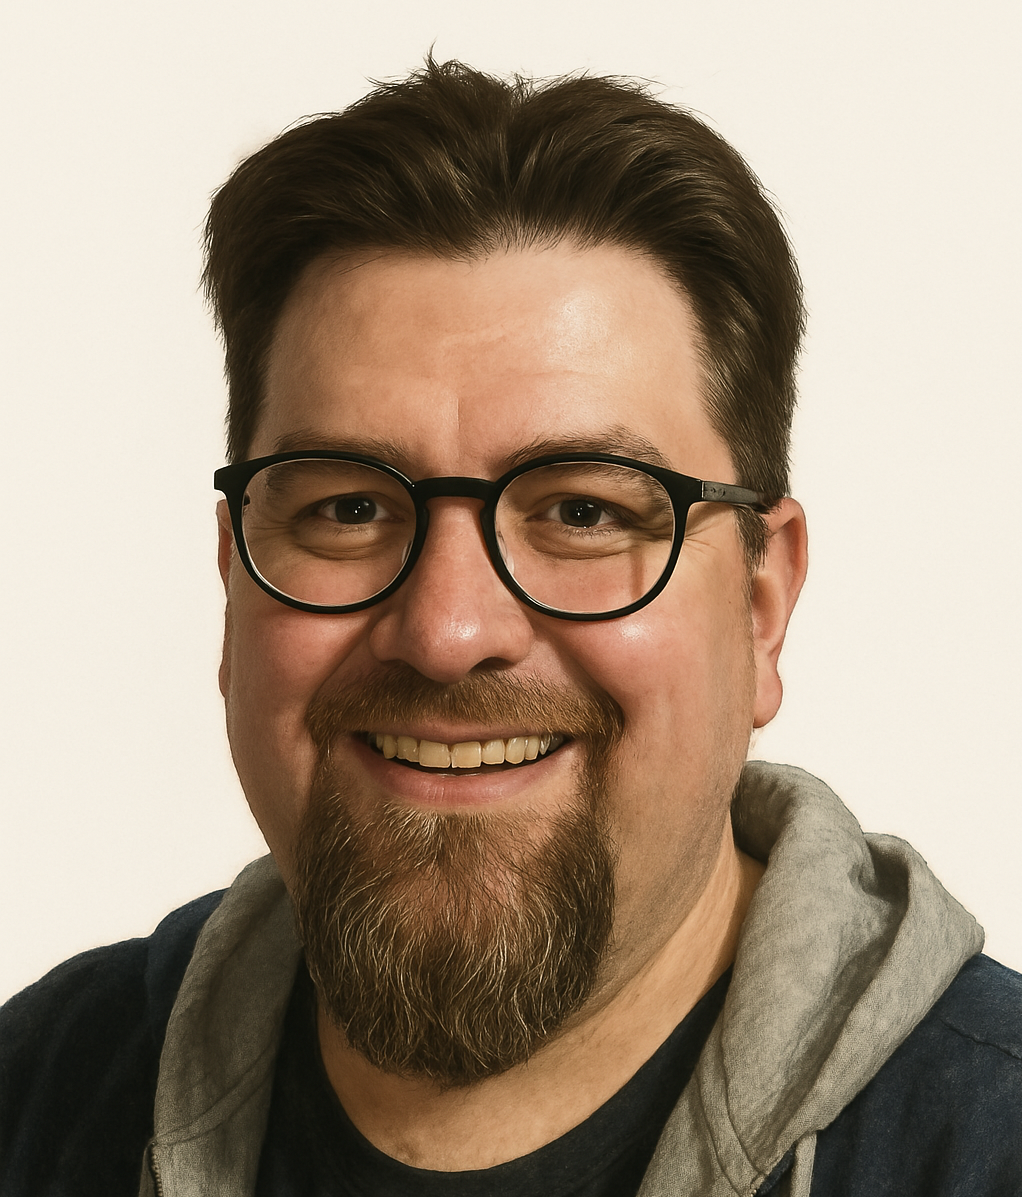
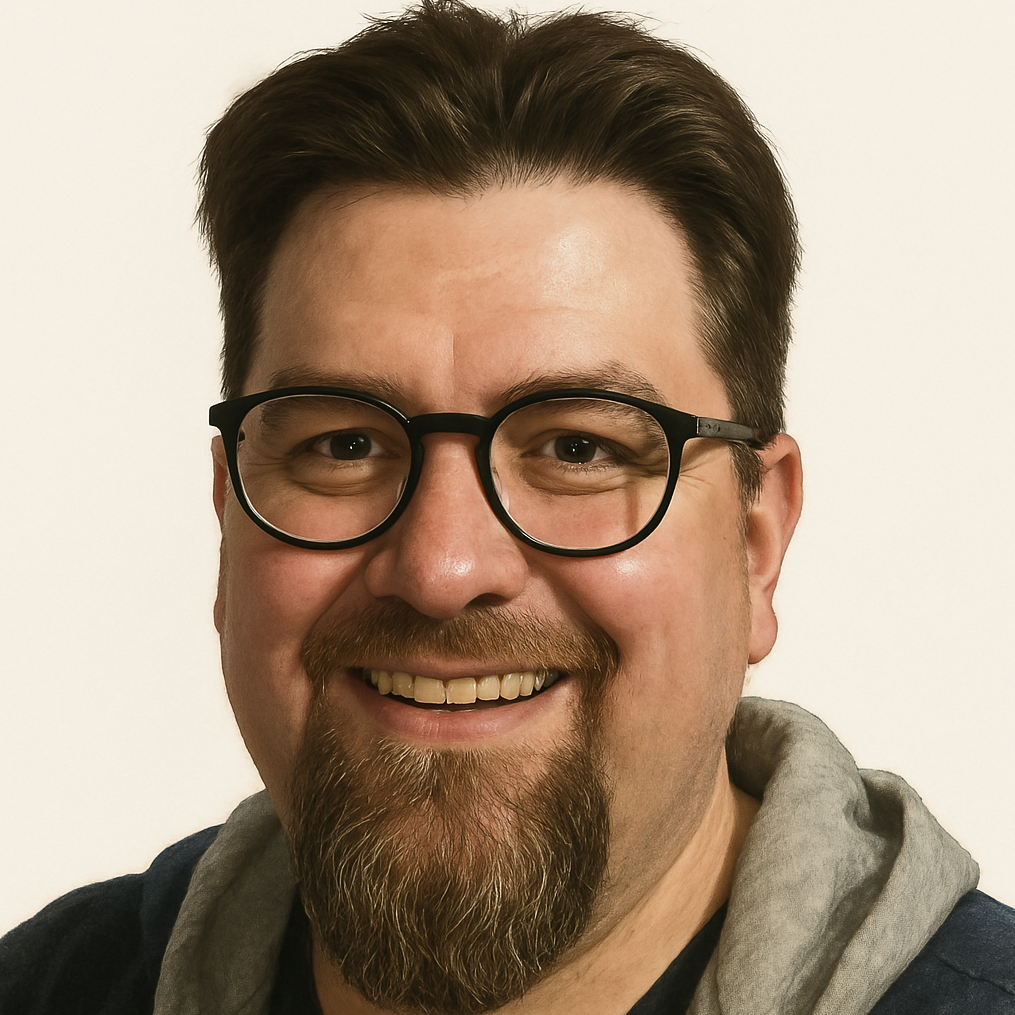
Change profile picture

diff --git a/src/app/page.tsx b/src/app/page.tsx
@@ -1,4 +1,4 @@
-import joe from '@/images/avatar.jpg';
+import joe from '@/images/image3.png';
 import Image from 'next/image';
 import Link from 'next/link';
 import SocialButton from '@/components/SocialButton';
